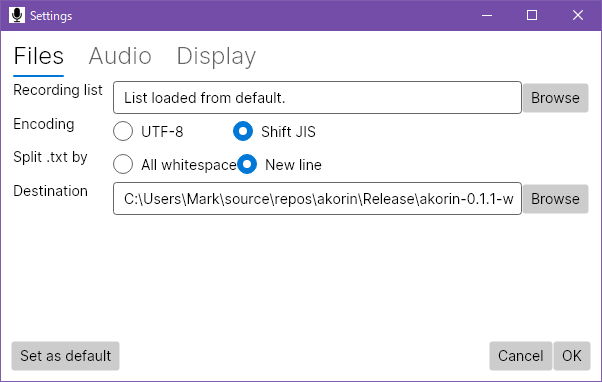
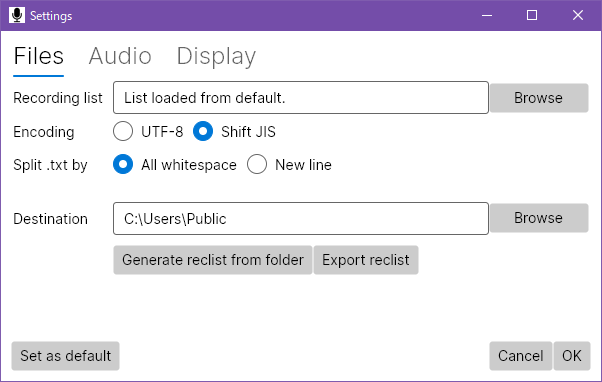
Update readme to include new features

diff --git a/README.md b/README.md
@@ -6,7 +6,7 @@ The OREMO killer: A line-by-line audio recording tool for singing synthesis libr
 Download latest version from [Releases](https://github.com/adlez27/akorin/releases).
 
 ## Features
-* Load plain text reclists, or Akorin Recording Lists that include notes
+* Load several reclist formats, including a custom format that combines the reclist with notes
 * Load Shift JIS and UTF-8 reclists
 * Split plain text lists by all whitespace or by newline
 * Set a destination folder for auto-saved recordings
@@ -20,20 +20,30 @@ Download latest version from [Releases](https://github.com/adlez27/akorin/releas
 
 ## Installation
 **Windows:** Unzip and place the folder anywhere. Run `Akorin.exe` to start Akorin.  
-**Mac:** Unzip and place `Akorin.app` anywhere. Control+click to open and start Akorin.
+**Mac:** (Current app bundle is bugged. Releases will return when this is resolved, but mac users will have to build from source in the meantime.)  
+**Linux:** There is no intention to provide a convenient release to Linux users, who should be capable of building from source.
 
 ## Usage
 ### Recording
+The currently selected line and its note are displayed at the top of the window. You can edit the note to add things like pronunciation guides, and it will autosave with your project.  
 Press `R` once to start recording, and press `R` again to stop recording. The waveform will appear after recording is stopped.  
 Press `space` once to start playback, and press `space` again to stop playing.  
-Click on items in the list or use arrow keys to navigate through the list. Audio is automatically saved to your specified folder when moving through the list.
+Click on items in the list or use arrow keys to navigate through the list. Audio is automatically saved to your specified folder when moving through the list. Lines that are already recorded will be highlighted. When you open a project, it'll automatically jump to the last line you selected.
 
 ### Changing reclist and folder
 Go to Settings > List and folder.
 
 ![File settings screenshot](file-settings.png)
 
-Currently supported reclist formats are plain text and ARL. You can check [Projects](https://github.com/adlez27/akorin/projects) to see what other formats are planned.
+The currently supported formats are:
+- Akorin recording list (.arl)
+- `OREMO-comment.txt`
+- `index.csv` for ARPAsing and [oto generator](https://github.com/adlez27/oto-generator)
+- [WavConfigTool](https://github.com/HeidenBZR/WavConfigTool) reclist (.reclist)
+- Plain text reclist (.txt) (Can split lines by all whitespace or by new line only)
+- UTAU sequence text (.ust)
+- Create reclist from files in folder
+When you load or create a reclist, you can export it as an ARL to use again later. The exported ARL will include all of the notes you've added to the current project.
 
 ### Writing an Akorin Recording List
 Akorin Recording Lists use YAML, which is very simple to read and write. Create a plain text file using a text editor like Notepad or TextEdit, with the following formatting.
